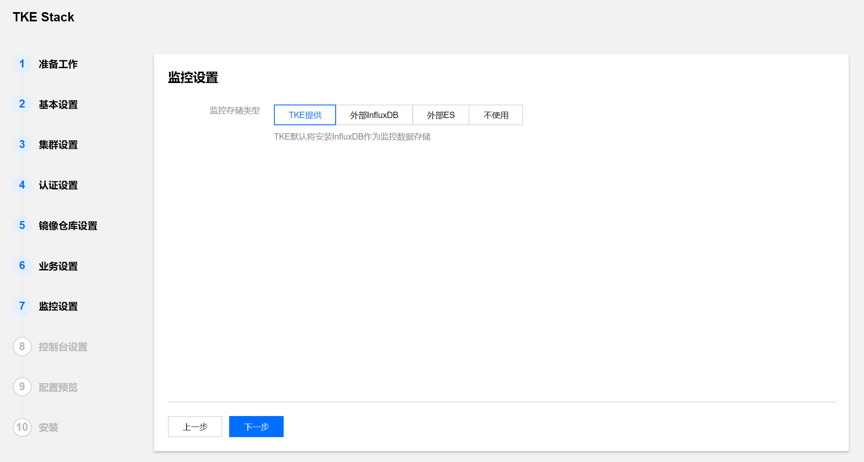
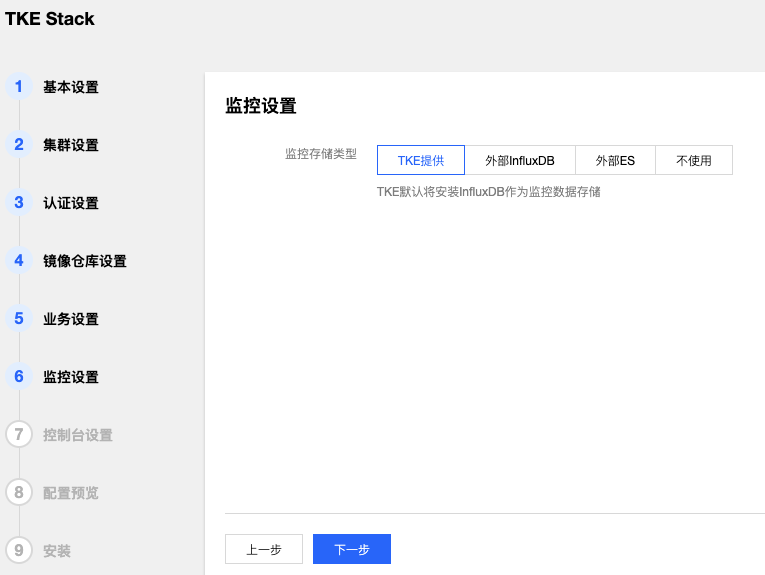
fix typo, update pictures in install.md

diff --git a/docs/devel/install.md b/docs/devel/install.md
@@ -33,55 +33,53 @@ TKEStack is tested on the following operating system:
 
 First Log in to your Linux host and install tke-installer via this command:
 
-    version=10fd8a9 wget https://tke-release-1251707795.cos.ap-guangzhou.myqcloud.com/tke-installer-x86_64-$version.run{,.sha256} && sha256sum --check --status tke-installer-x86_64-$version.run.sha256 && chmod +x tke-installer-x86_64-$version.run && ./tke-installer-x86_64-$version.run
+    version=v1.0.0 && wget https://tke-release-1251707795.cos.ap-guangzhou.myqcloud.com/tke-installer-x86_64-$version.run{,.sha256} && sha256sum --check --status tke-installer-x86_64-$version.run.sha256 && chmod +x tke-installer-x86_64-$version.run && ./tke-installer-x86_64-$version.run
 
+> Note: this command can be found at [TKEStack Release](https://github.com/tkestack/tke/releases)
+>
 > Note: tke-installer is about 3GB, contains all resources required by the installation, TKEStack will be installed offline, behind a firewall or behind a proxy.
 
 
 ## Starting the installation
 
 Open your browser to http://`INSTALLER-NODE-IP`:8080/index.html, the Web GUI will guide you to initialize and install the TKEStack.
-
-1. Read the software license, start the installation
   
-   ![Architecture Of TKE](../images/install/Picture1.png)
-  
-2. Set the account information and HA VIP
+1. Set the account information and HA VIP
   
    ![Architecture Of TKE](../images/install/Picture2.png)
   
-3. Configure the global cluster, set cluster's nic, GPU type and container network, specify the master node information，advance option enable you to set customized parameters
+2. Configure the global cluster, set cluster's nic, GPU type and container network, specify the master node information，advance option enable you to set customized parameters
 
    ![Architecture Of TKE](../images/install/Picture3.png)
   
-4. Set authentication information
+3. Set authentication information
 
    ![Architecture Of TKE](../images/install/Picture4.png)
   
-5. Specify the image registry, TKEStack will deploy a local registry by default
+4. Specify the image registry, TKEStack will deploy a local registry by default
 
    ![Architecture Of TKE](../images/install/Picture5.png)
   
-6. Business setting，default is on
+5. Business setting，default is on
 
    ![Architecture Of TKE](../images/install/Picture6.png)
   
-7. Monitor settings，TKE will install an influxDB as the monitor data's storage, or specify the influxDB address and ES address, or disable the monitor
+6. Monitor settings，TKE will install an influxDB as the monitor data's storage, or specify the influxDB address and ES address, or disable the monitor
   
    ![Architecture Of TKE](../images/install/Picture7.png)
   
-8. Console settings, if enabled, specify the console page's address and certificate
+7. Console settings, if enabled, specify the console page's address and certificate
   
    ![Architecture Of TKE](../images/install/Picture8.png)
   
-9. Preview all the configuration, if no problem, click `install` to start, next page will show the install logs in real time
+8. Preview all the configuration, if no problem, click `install` to start, next page will show the install logs in real time
    
    ![Architecture Of TKE](../images/install/Picture9.png)
    
 
 ## Using TKEStack
 
-After the installation is completed, you will receive a `===>install teasl [Success]` message, click the `Guidance` button to check the TKEStack console address, open a browser to access.
+After the installation is completed, you will receive a `===>install task [Success]` message, click the `Guidance` button to check the TKEStack console address, open a browser to access.
    
    ![Architecture Of TKE](../images/install/Picture10.png)
 

diff --git a/README.md b/README.md
@@ -39,7 +39,8 @@
 We are preparing how to use TKE-related documentation. At the same time, the release package is also generated by our configuration of the github codebase-based pipeline. Once these are ready, we will update the documentation here.
 
 ## Installation
-TKEStack use tke-installer tool to deploy,  please follow the guide to get TKEStack up and running.
+
+TKEStack use tke-installer tool to deploy, please follow the guide to get TKEStack up and running.
 
 * [TKEStack Install](docs/devel/install.md)
 
